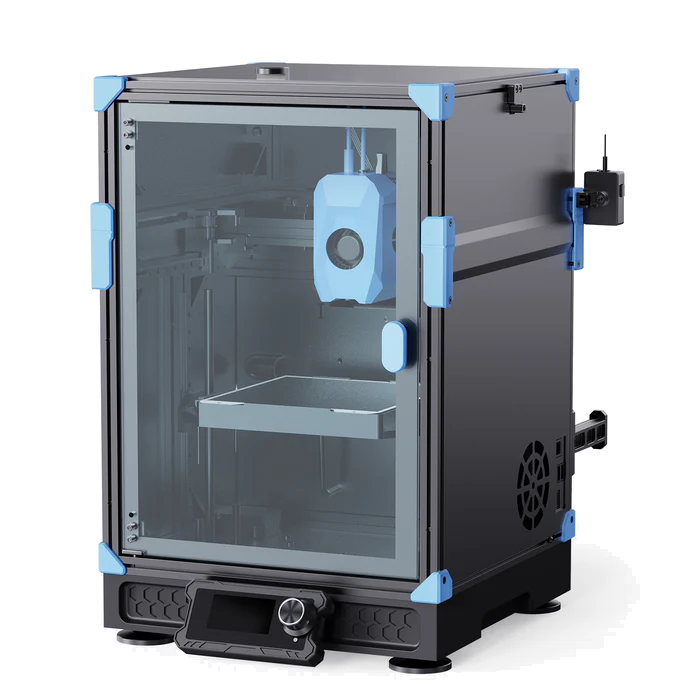
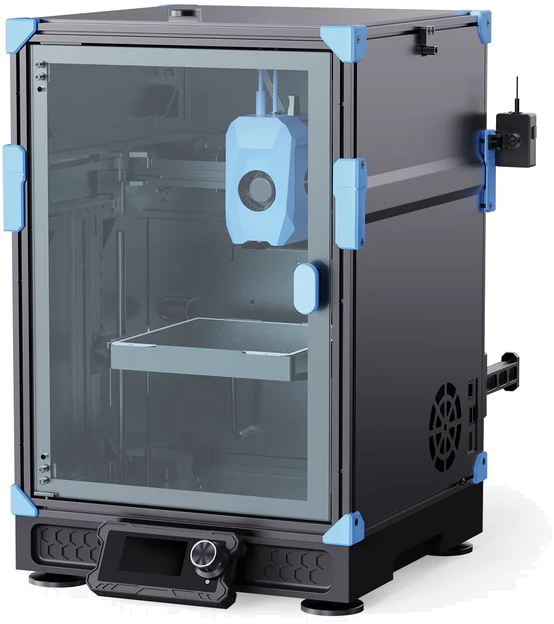
chore(ratchets): grant batch 49 its test lines and over-cap growth
Trims the two printer images whose erased backdrop left a transparent margin
and marks the path canvas functions that sit beside its global C API.

Test-budget: +430 plate glow, filament chevrons and the dryer page: geometry, mask, timers, hours, phase, airflow
File-size: src/application/application.cpp three new widget registrations
File-size: src/ui/components/ui_button.cpp an authored text color wins the contrast pass
File-size: src/ui/filament/ui_panel_filament.cpp manual motion for the chevrons
File-size: tests/unit/test_ams_backend_openams.cpp the dry this screen did not start
File-size: tests/unit/test_printer_image_callouts.cpp the plate glow geometry

diff --git a/src/ui/filament/ui_filament_path_canvas.cpp b/src/ui/filament/ui_filament_path_canvas.cpp
@@ -765,6 +765,7 @@ bool ui_filament_path_canvas_is_animating(lv_obj_t* obj) {
     return data->anim.segment_active || data->anim.error_pulse_active || flow_visible(*data);
 }
 
+// NAMESPACE_OK: beside this widget's global C API
 void ui_filament_path_canvas_set_manual_motion(lv_obj_t* obj, int motion) {
     auto* data = get_data(obj);
     if (!data)
@@ -772,11 +773,13 @@ void ui_filament_path_canvas_set_manual_motion(lv_obj_t* obj, int motion) {
     set_manual_motion(obj, data, helix::filament_motion_from_int(motion));
 }
 
+// NAMESPACE_OK: beside this widget's global C API
 int ui_filament_path_canvas_get_manual_motion(lv_obj_t* obj) {
     auto* data = get_data(obj);
     return data ? static_cast<int>(data->anim.manual_motion) : 0;
 }
 
+// NAMESPACE_OK: beside this widget's global C API
 bool ui_filament_path_canvas_flow_reversed(lv_obj_t* obj) {
     auto* data = get_data(obj);
     return data && flow_reversed(*data);
